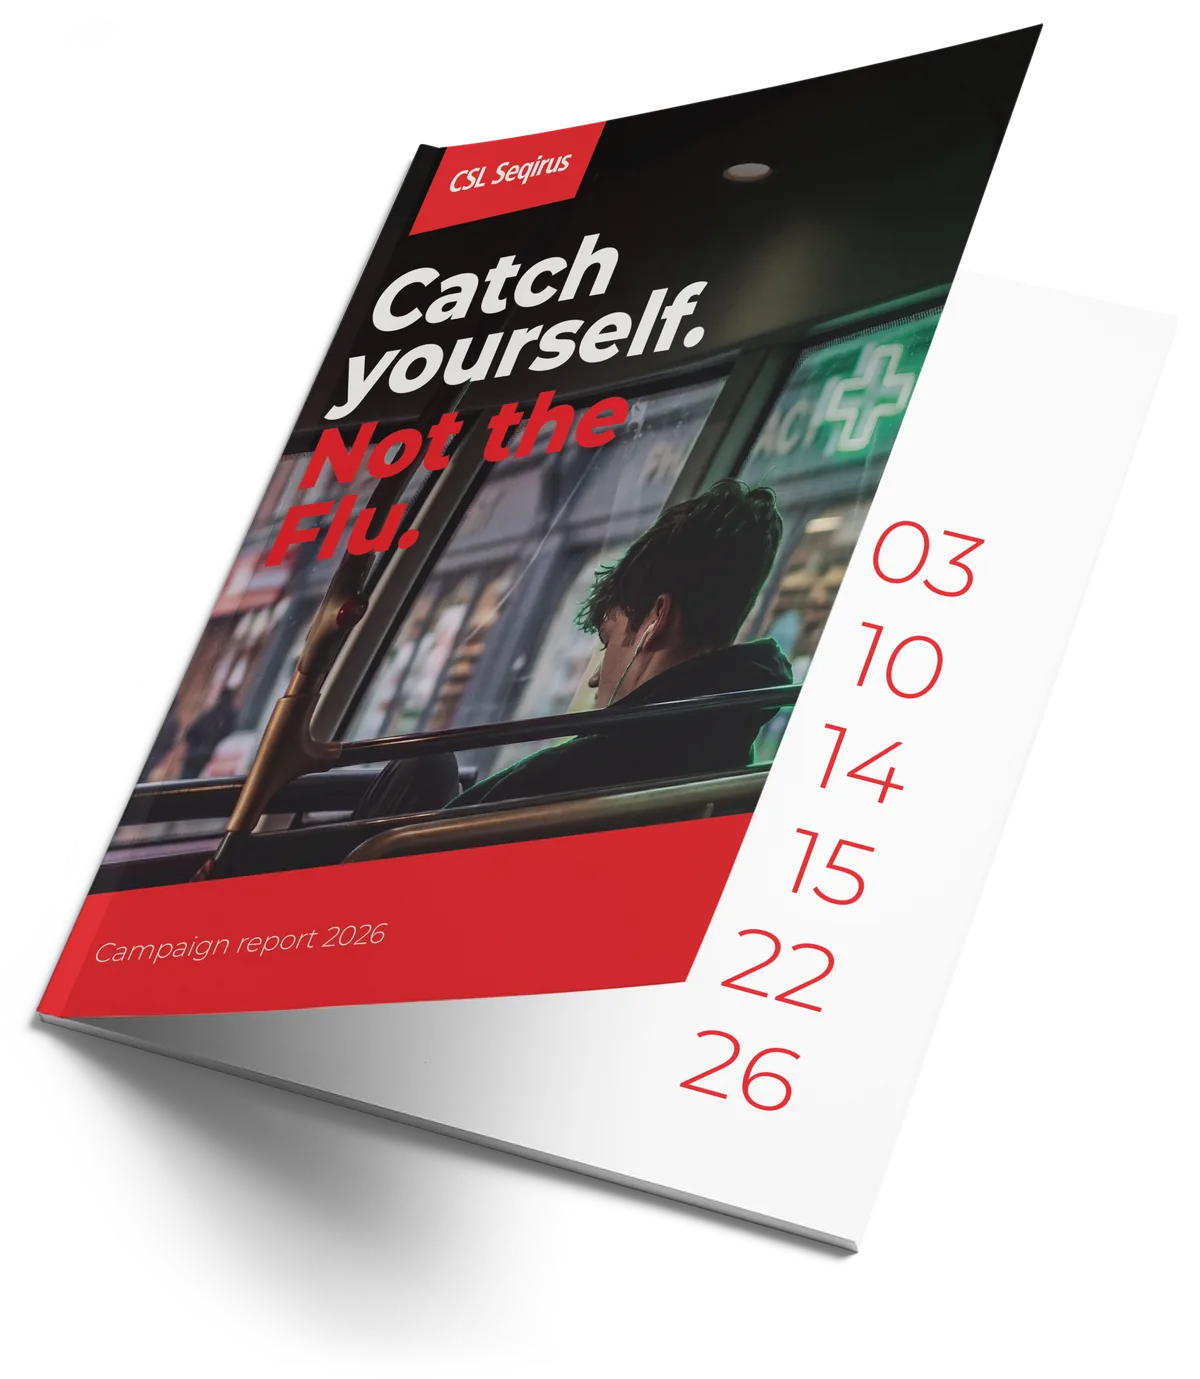
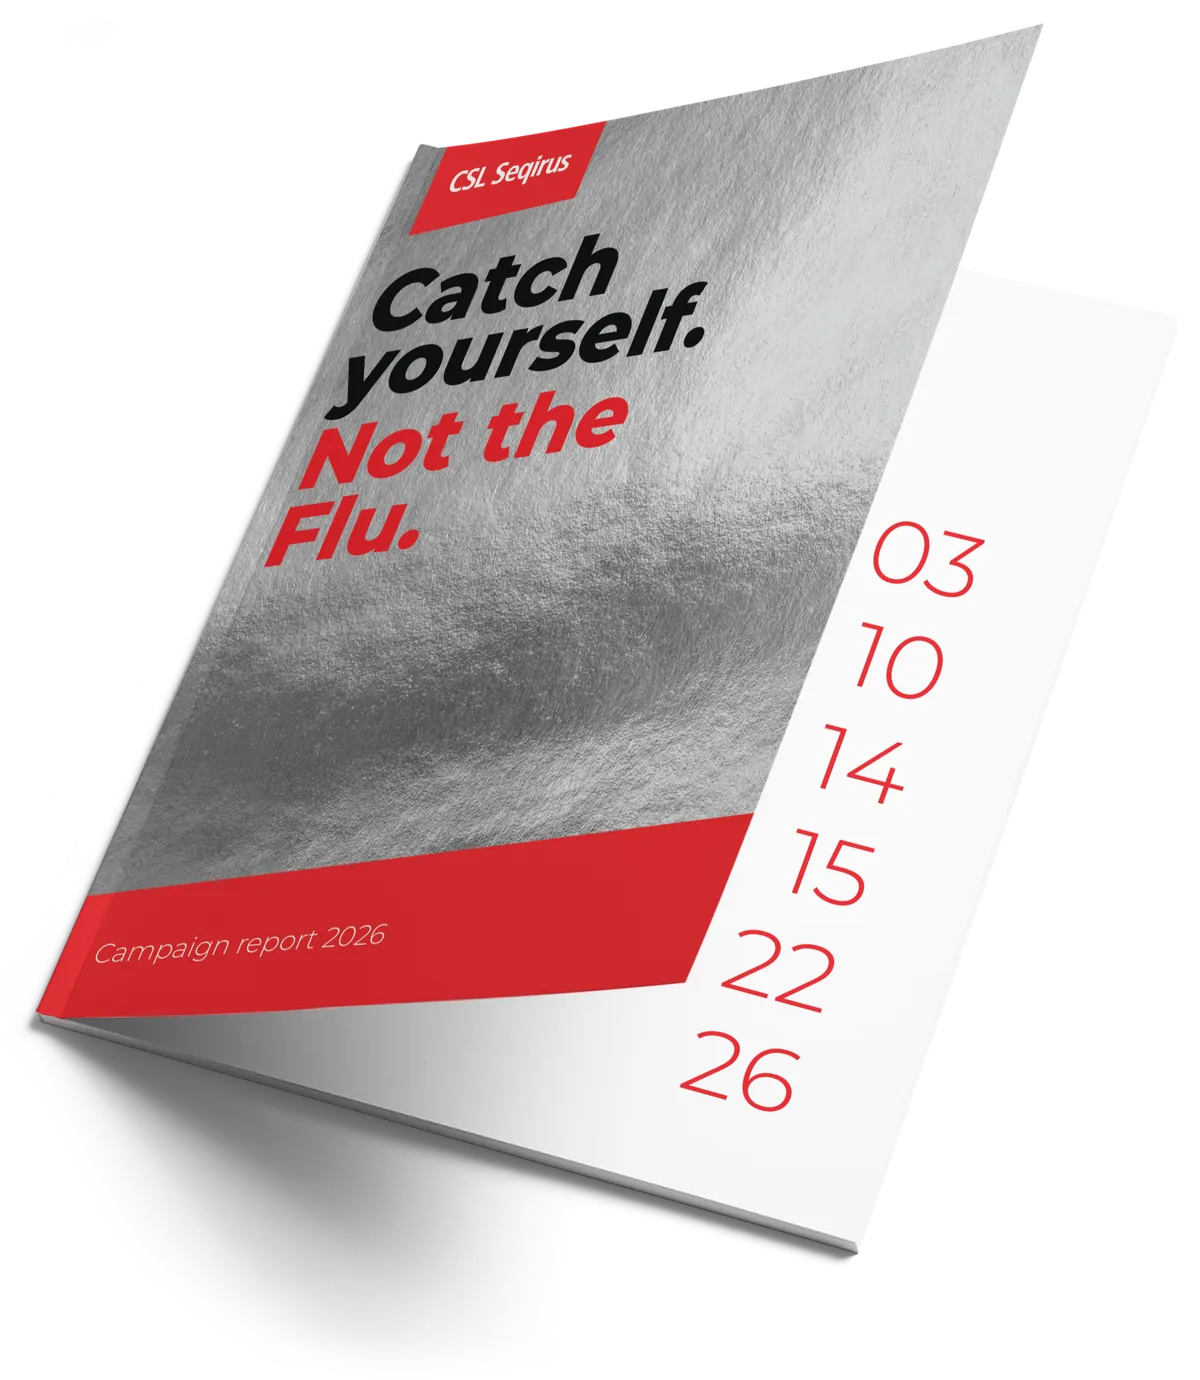
Use the silver foil report cover

Changed region(s): [[0.0617, 0.0, 0.8633, 0.6548]]

diff --git a/src/components/CampaignPage.tsx b/src/components/CampaignPage.tsx
@@ -121,9 +121,9 @@ function Report() {
         {REPORT_COVER ? (
           <img
             src={REPORT_COVER}
-            alt="The Catch yourself. Not the flu. campaign report 2026, cover showing a passenger on a bus passing a pharmacy"
+            alt="The Catch yourself. Not the flu. campaign report 2026, with a silver foil cover"
             width={1200}
-            height={1379}
+            height={1380}
             loading="lazy"
           />
         ) : (
